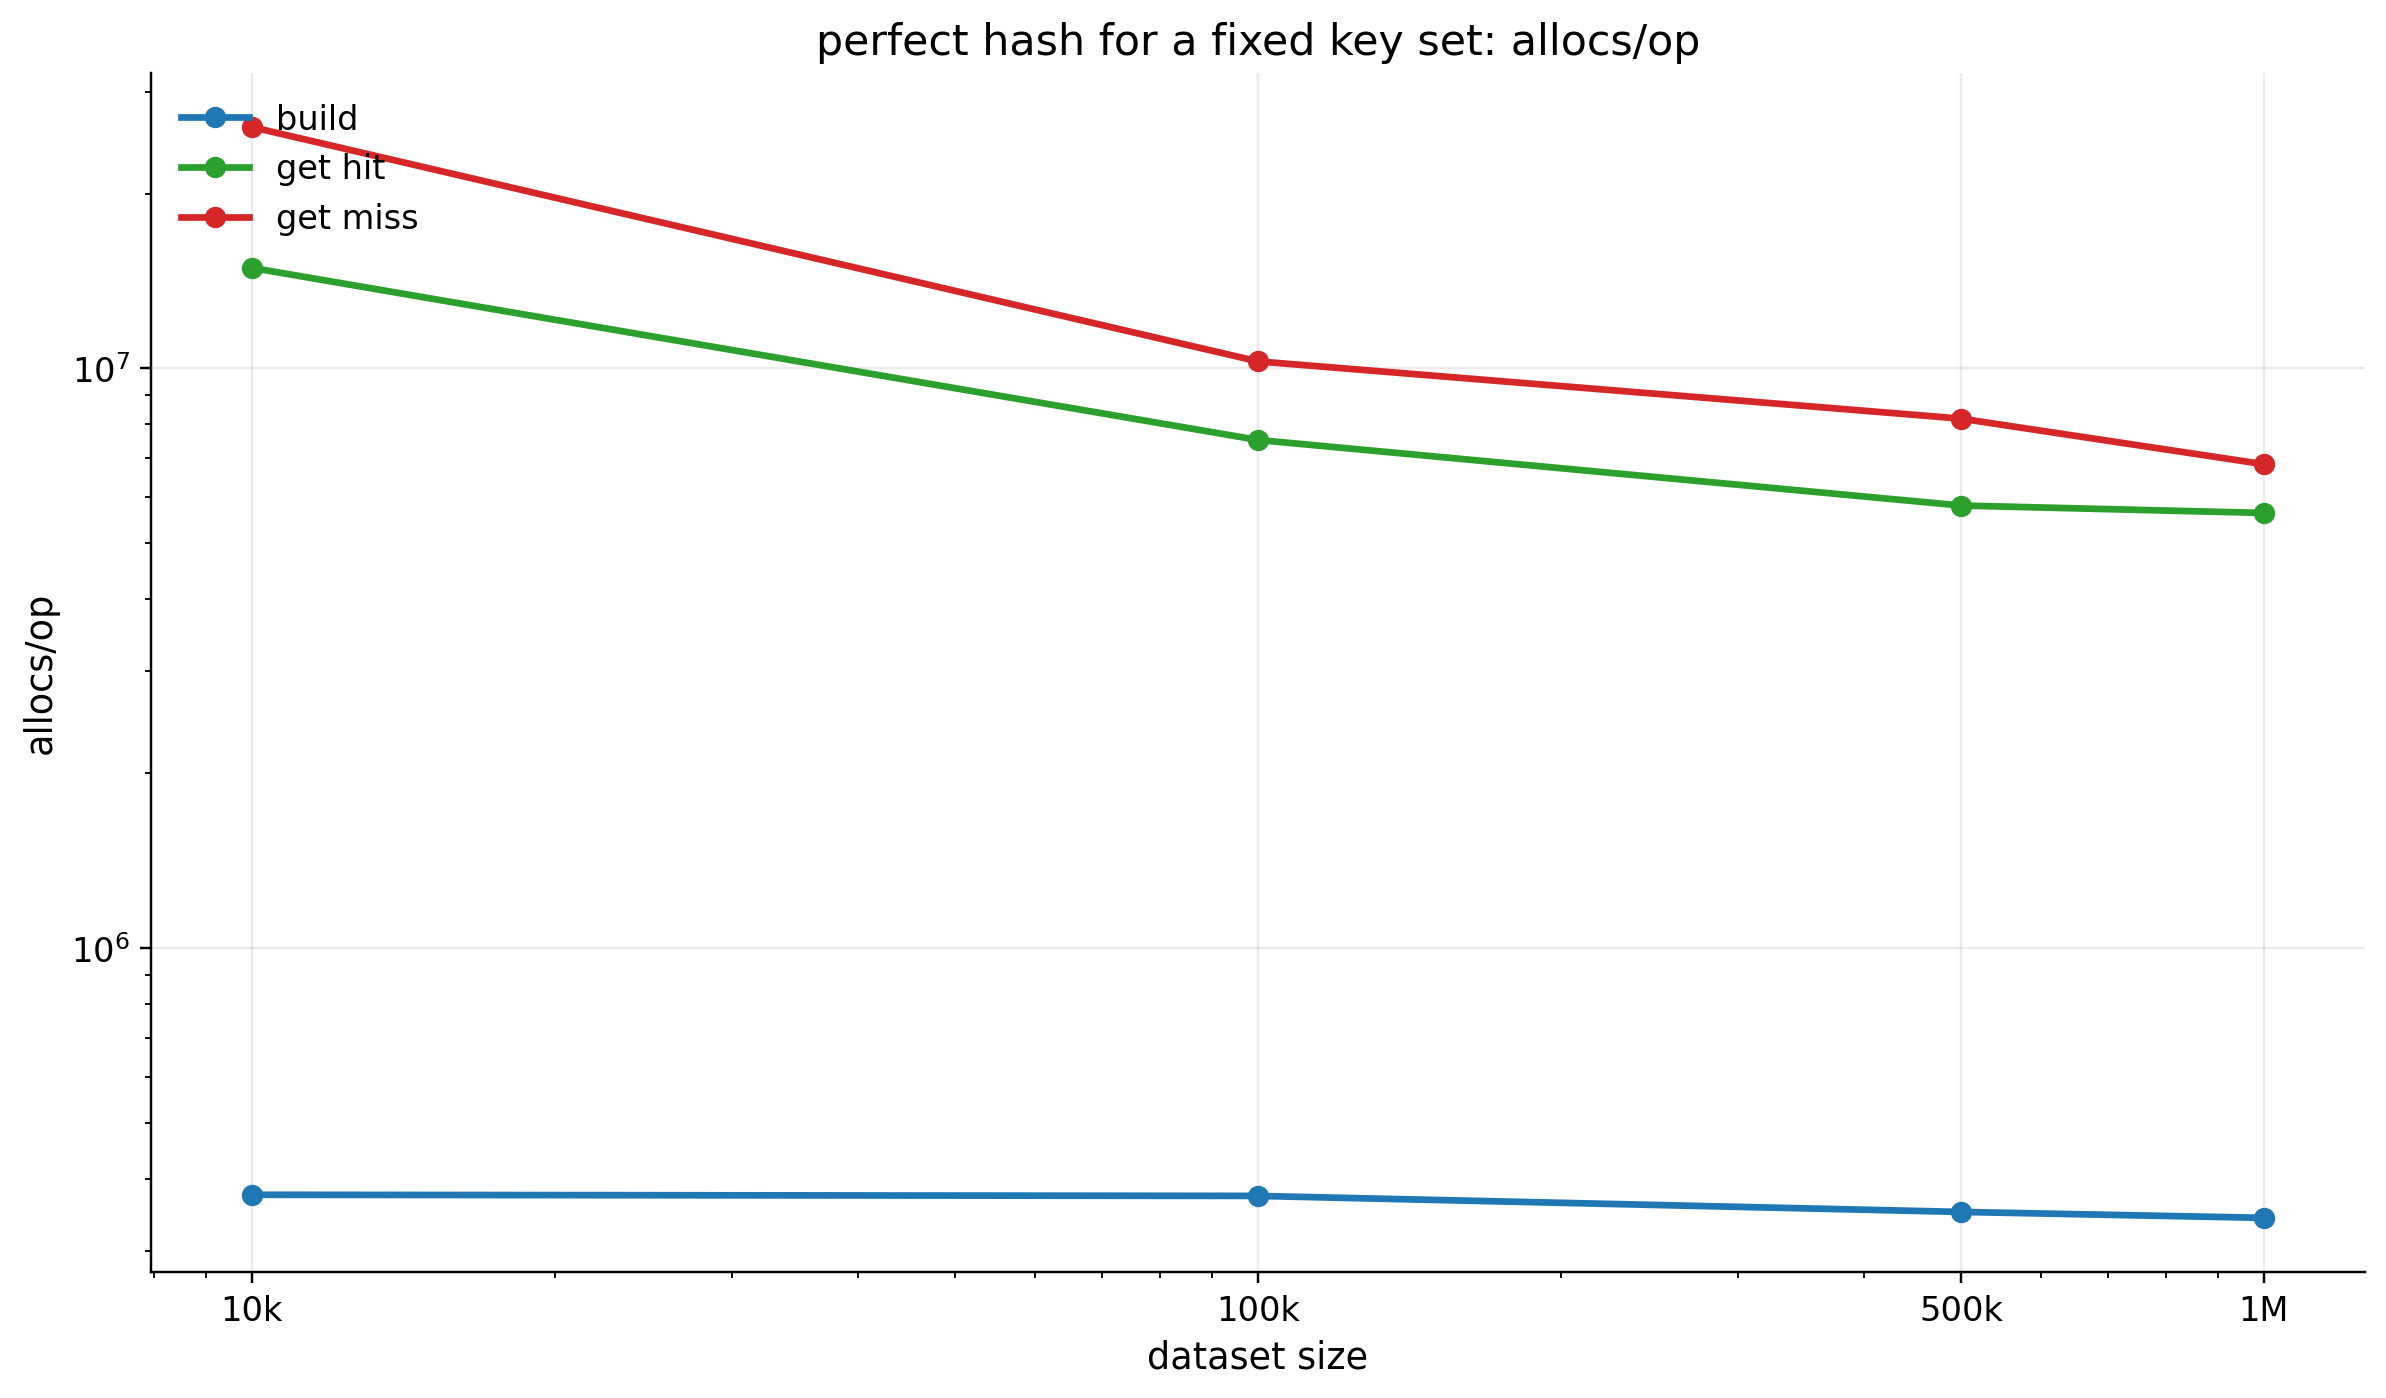
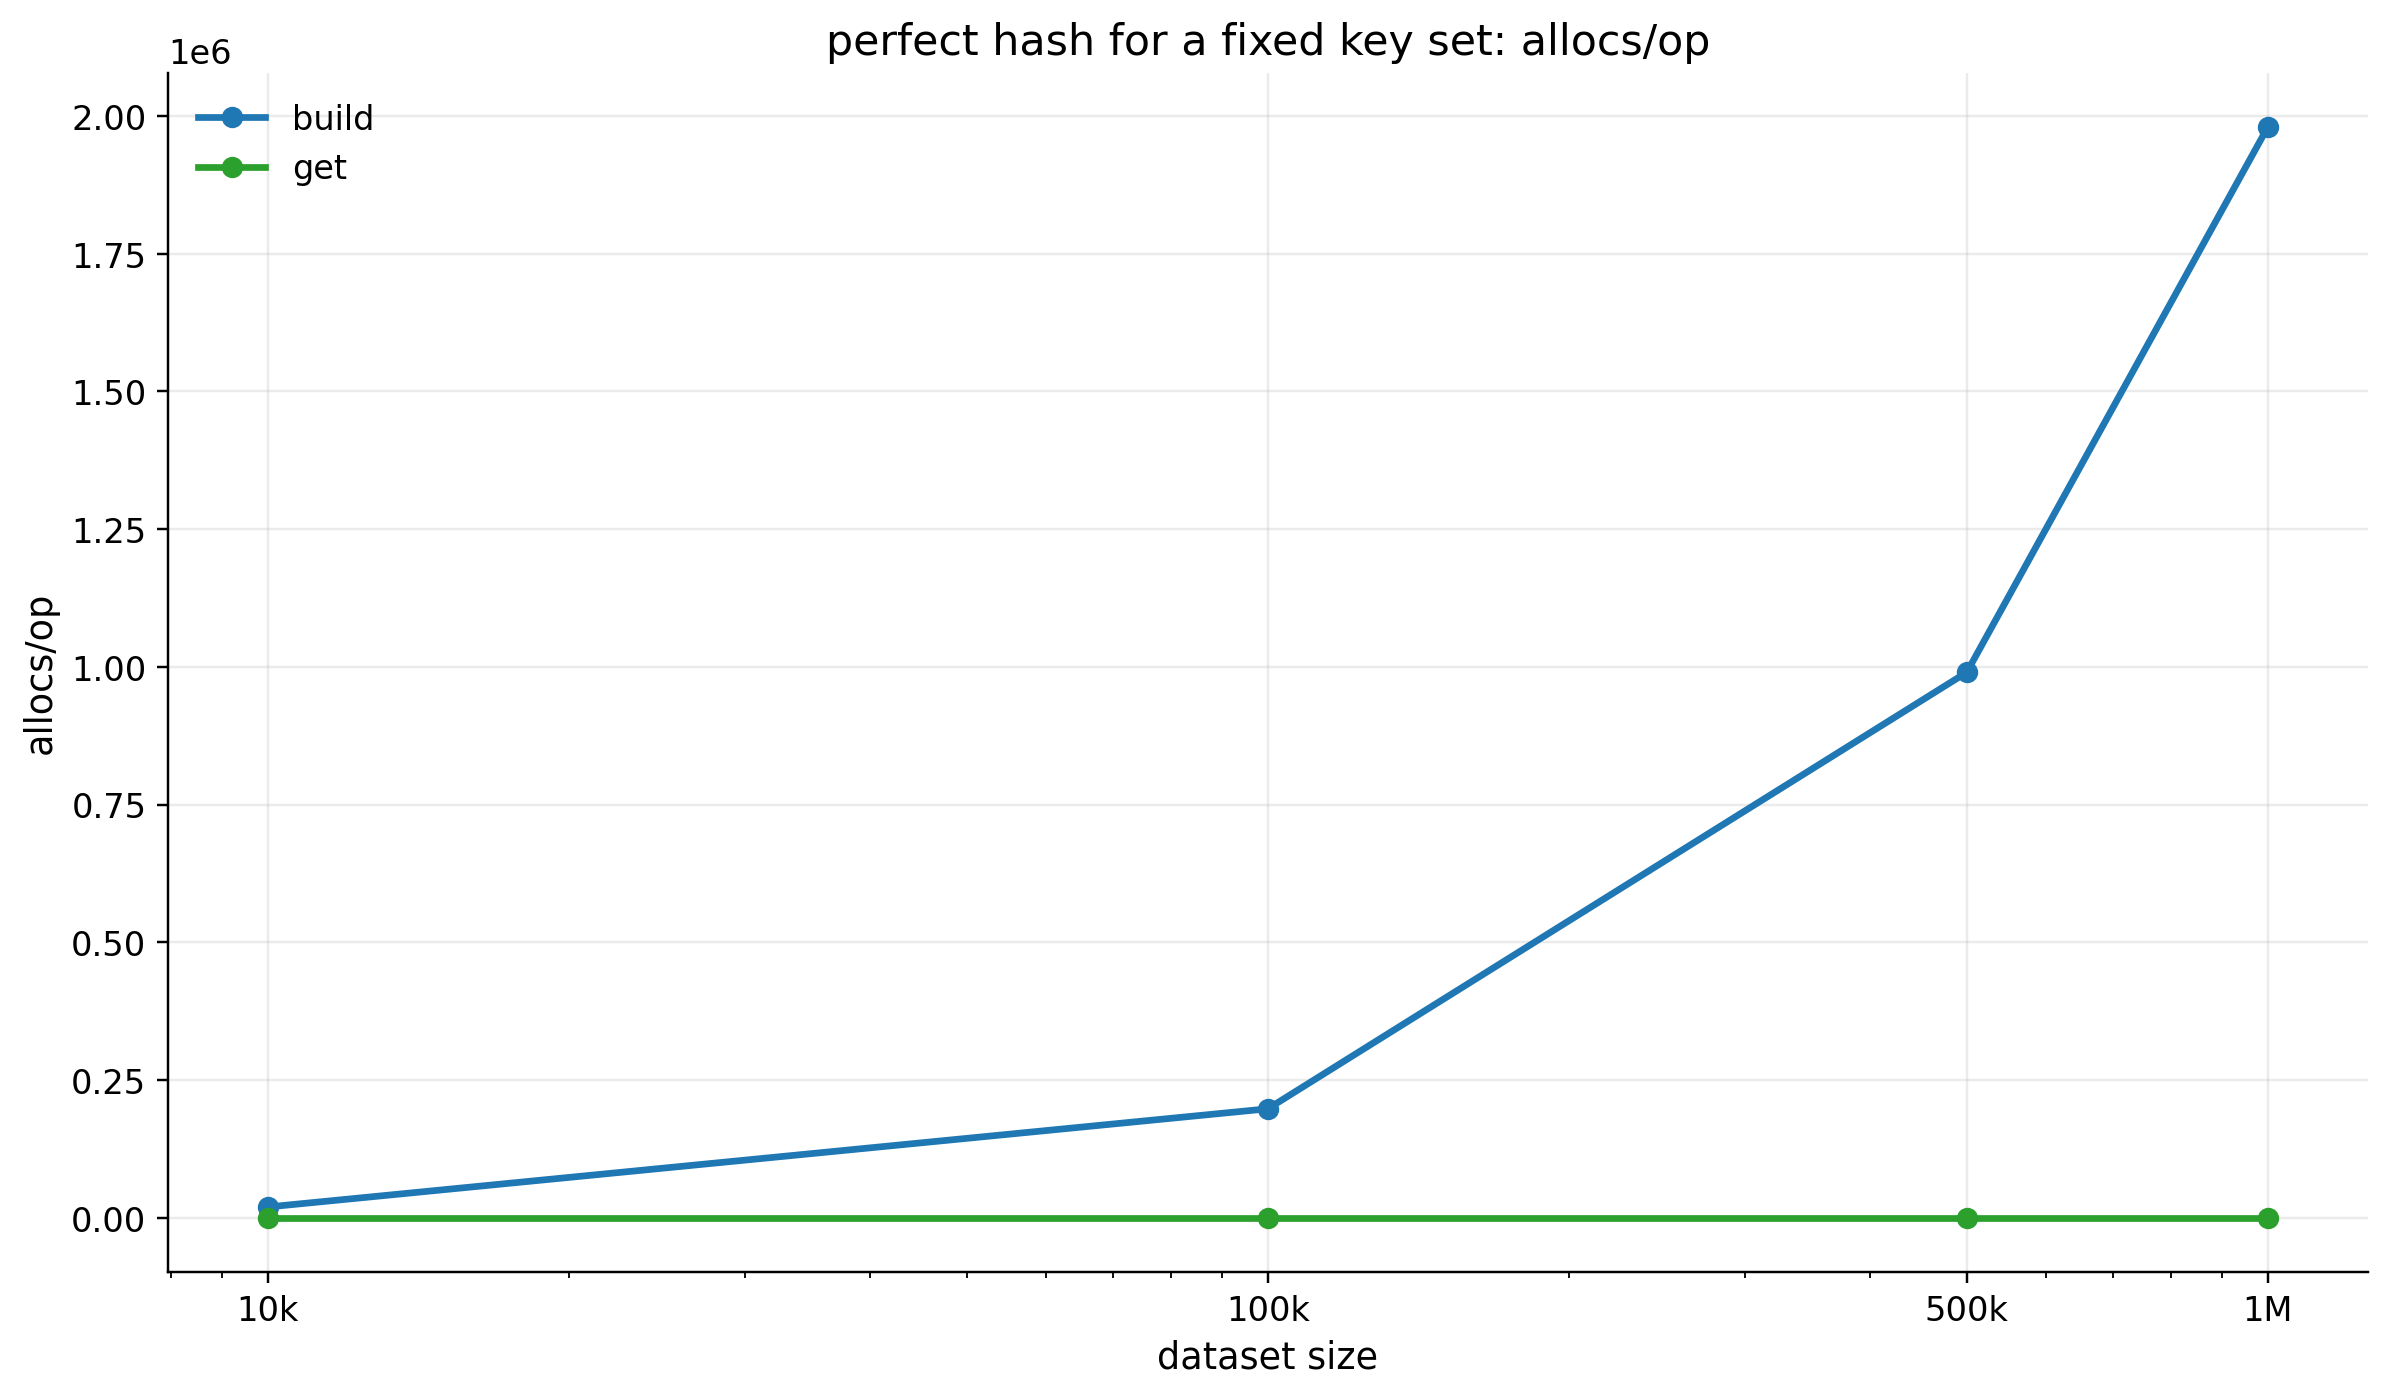
fix perfect hashing

diff --git a/hw1/perfect/benchmark_test.go b/hw1/perfect/benchmark_test.go
@@ -2,13 +2,22 @@ package perfect
 
 import (
 	"fmt"
+	"io"
+	"math"
 	"os"
 	"strconv"
 	"strings"
 	"testing"
+	"time"
 )
 
 var defaultBenchmarkSizes = []int{1000, 10000, 50000, 100000}
+
+const (
+	defaultGetBenchIters       = 100
+	defaultGetCountPerIter     = 100000
+	defaultGeneratedDatasetFmt = "generated:size=%d:seed=%d"
+)
 
 func BenchmarkTableBuild(b *testing.B) {
 	for _, size := range benchmarkSizes(b) {
@@ -59,65 +68,73 @@ func BenchmarkTableGet(b *testing.B) {
 	}
 }
 
-func BenchmarkTableGetMiss(b *testing.B) {
-	for _, size := range benchmarkSizes(b) {
-		entries, _ := randomEntries(int64(size*97), size)
+func TestPerfectGetReport(t *testing.T) {
+	if strings.TrimSpace(os.Getenv("RUN_GET_REPORT")) != "1" {
+		t.Skip("set RUN_GET_REPORT=1 to generate get report")
+	}
+
+	sizes := benchmarkSizes(t)
+	iters := readPositiveIntEnv(t, "BENCH_ITERS", defaultGetBenchIters)
+	lookupsPerIter := readPositiveIntEnv(t, "GET_COUNT_PER_ITER", defaultGetCountPerIter)
+	writer := io.Writer(os.Stdout)
+
+	if outPath := strings.TrimSpace(os.Getenv("GET_REPORT_OUT")); outPath != "" {
+		file, err := os.Create(outPath)
+		if err != nil {
+			t.Fatalf("create get report: %v", err)
+		}
+		defer file.Close()
+		writer = file
+	}
+
+	fmt.Fprintln(writer, "file,rows,iterations,get_sec,get_avg_sec,get_ci95_avg_sec,get_ops_sec")
+	for _, size := range sizes {
+		seed := int64(size * 97)
+		entries, _ := randomEntries(seed, size)
 		table, err := Build(entries)
 		if err != nil {
-			b.Fatalf("Build failed: %v", err)
+			t.Fatalf("Build failed: %v", err)
 		}
 
-		misses := make([]string, size)
-		for i := range misses {
-			misses[i] = fmt.Sprintf("missing-%08d", i)
-		}
+		samples := make([]float64, iters)
+		var totalSec float64
+		var totalOpsSec float64
 
-		b.Run(fmt.Sprintf("size=%d", size), func(b *testing.B) {
-			b.ReportAllocs()
-			for i := 0; i < b.N; i++ {
-				b.StartTimer()
-				for _, key := range misses {
-					if _, found := table.Get(key); found {
-						b.Fatalf("expected missing key %q to be absent", key)
-					}
+		for iter := 0; iter < iters; iter++ {
+			start := time.Now()
+			for i := 0; i < lookupsPerIter; i++ {
+				entry := entries[i%len(entries)]
+				got, found := table.Get(entry.Key)
+				if !found || got != entry.Value {
+					t.Fatalf("Get(%q) mismatch", entry.Key)
 				}
-				b.StopTimer()
 			}
-
-			reportItemMetrics(b, size)
-		})
-	}
-}
-
-func benchmarkSizes(b testing.TB) []int {
-	b.Helper()
-
-	raw := strings.TrimSpace(os.Getenv("SIZES"))
-	if raw == "" {
-		return defaultBenchmarkSizes
-	}
-
-	parts := strings.Split(raw, ",")
-	sizes := make([]int, 0, len(parts))
-	for _, part := range parts {
-		part = strings.TrimSpace(part)
-		if part == "" {
-			continue
+			elapsedSec := time.Since(start).Seconds()
+			avgSec := elapsedSec / float64(lookupsPerIter)
+			samples[iter] = avgSec
+			totalSec += elapsedSec
+			if elapsedSec > 0 {
+				totalOpsSec += float64(lookupsPerIter) / elapsedSec
+			}
 		}
-		value, err := strconv.Atoi(part)
-		if err != nil {
-			b.Fatalf("invalid SIZES value %q: %v", part, err)
-		}
-		if value <= 0 {
-			b.Fatalf("invalid SIZES value %q", part)
-		}
-		sizes = append(sizes, value)
-	}
 
-	if len(sizes) == 0 {
-		b.Fatalf("SIZES=%q did not contain valid values", raw)
+		meanSec := totalSec / float64(iters)
+		meanAvgSec := meanSec / float64(lookupsPerIter)
+		ci95AvgSec := ci95Seconds(samples)
+		meanOpsSec := totalOpsSec / float64(iters)
+
+		fmt.Fprintf(
+			writer,
+			defaultGeneratedDatasetFmt+",%d,%d,%.9f,%.12f,%.12f,%.2f\n",
+			size, seed,
+			size,
+			iters,
+			meanSec,
+			meanAvgSec,
+			ci95AvgSec,
+			meanOpsSec,
+		)
 	}
-	return sizes
 }
 
 func reportItemMetrics(b *testing.B, size int) {
@@ -128,4 +145,81 @@ func reportItemMetrics(b *testing.B, size int) {
 	totalItems := float64(b.N * size)
 	b.ReportMetric(float64(b.Elapsed().Nanoseconds())/totalItems, "ns/item")
 	b.ReportMetric(totalItems/b.Elapsed().Seconds(), "ops/s")
+}
+
+func benchmarkSizes(tb testing.TB) []int {
+	tb.Helper()
+	return parsePositiveIntListEnv(tb, "SIZES", defaultBenchmarkSizes)
+}
+
+func readPositiveIntEnv(tb testing.TB, name string, defaultValue int) int {
+	tb.Helper()
+
+	raw := strings.TrimSpace(os.Getenv(name))
+	if raw == "" {
+		return defaultValue
+	}
+
+	value, err := strconv.Atoi(raw)
+	if err != nil {
+		tb.Fatalf("invalid %s value %q: %v", name, raw, err)
+	}
+	if value <= 0 {
+		tb.Fatalf("invalid %s value %q", name, raw)
+	}
+
+	return value
+}
+
+func parsePositiveIntListEnv(tb testing.TB, name string, defaultValues []int) []int {
+	tb.Helper()
+
+	raw := strings.TrimSpace(os.Getenv(name))
+	if raw == "" {
+		return defaultValues
+	}
+
+	parts := strings.Split(raw, ",")
+	values := make([]int, 0, len(parts))
+	for _, part := range parts {
+		part = strings.TrimSpace(part)
+		if part == "" {
+			continue
+		}
+		value, err := strconv.Atoi(part)
+		if err != nil {
+			tb.Fatalf("invalid %s value %q: %v", name, part, err)
+		}
+		if value <= 0 {
+			tb.Fatalf("invalid %s value %q", name, part)
+		}
+		values = append(values, value)
+	}
+
+	if len(values) == 0 {
+		tb.Fatalf("%s=%q did not contain valid values", name, raw)
+	}
+	return values
+}
+
+func ci95Seconds(samples []float64) float64 {
+	if len(samples) <= 1 {
+		return 0
+	}
+
+	var mean float64
+	for _, sample := range samples {
+		mean += sample
+	}
+	mean /= float64(len(samples))
+
+	var variance float64
+	for _, sample := range samples {
+		diff := sample - mean
+		variance += diff * diff
+	}
+	variance /= float64(len(samples) - 1)
+
+	stderr := math.Sqrt(variance / float64(len(samples)))
+	return 1.96 * stderr
 }

diff --git a/scripts/visualize_hw1_benchmarks.py b/scripts/visualize_hw1_benchmarks.py
@@ -13,18 +13,32 @@ OPERATION_CONFIG = {
             ("get", "get", "#2ca02c"),
             ("delete", "delete", "#d62728"),
         ],
+        "raw": [
+            ("insert", "insert", "#1f77b4"),
+            ("update", "update", "#ff7f0e"),
+            ("get", "get", "#2ca02c"),
+            ("delete", "delete", "#d62728"),
+        ],
         "title": "extendible hashing on filesystem buckets",
     },
     "perfect": {
         "time": [
             ("build", "build", "#1f77b4"),
-            ("get", "get hit", "#2ca02c"),
-            ("get_miss", "get miss", "#d62728"),
+        ],
+        "raw": [
+            ("build", "build", "#1f77b4"),
+            ("get", "get", "#2ca02c"),
         ],
         "title": "perfect hash for a fixed key set",
     },
     "lsh": {
         "time": [
+            ("build", "build", "#1f77b4"),
+            ("add", "add", "#ff7f0e"),
+            ("search", "search", "#2ca02c"),
+            ("fullscan", "full scan", "#d62728"),
+        ],
+        "raw": [
             ("build", "build", "#1f77b4"),
             ("add", "add", "#ff7f0e"),
             ("search", "search", "#2ca02c"),
@@ -96,6 +110,52 @@ def maybe_set_log_scale(ax, values, axis: str) -> None:
             ax.set_yscale("log")
 
 
+def load_get_report(path: Path) -> pd.DataFrame:
+    df = pd.read_csv(path)
+    numeric_columns = ["rows", "iterations", "get_sec", "get_avg_sec", "get_ci95_avg_sec", "get_ops_sec"]
+    for column in numeric_columns:
+        df[column] = pd.to_numeric(df[column], errors="raise")
+    return df.sort_values("rows")
+
+
+def plot_perfect_time(summary_dir: Path, raw_dir: Path, out_dir: Path) -> None:
+    build_summary = summary_dir / "build_summary.tsv"
+    if build_summary.exists():
+        fig, ax = plt.subplots()
+        df = load_tsv(build_summary, ["size", "mean", "ci", "runs"]).sort_values("size")
+        x = df["size"].to_numpy()
+        y = df["mean"].to_numpy()
+        ci = df["ci"].to_numpy()
+
+        ax.plot(x, y, marker="o", linewidth=2.4, color="#1f77b4", label="build")
+        ax.fill_between(x, y - ci, y + ci, alpha=0.18, color="#1f77b4")
+        maybe_set_log_scale(ax, x, "x")
+        set_size_ticks(ax, x)
+        ax.set_xlabel("dataset size")
+        ax.set_ylabel("build ns/op")
+        ax.set_title("perfect hash build: mean and 95% ci")
+        ax.legend(loc="upper left")
+        save(fig, out_dir / "build_time_pretty.png")
+
+    get_report = raw_dir / "get_report.csv"
+    if get_report.exists():
+        fig, ax = plt.subplots()
+        df = load_get_report(get_report)
+        x = df["rows"].to_numpy()
+        y = (df["get_avg_sec"] * 1e9).to_numpy()
+        ci = (df["get_ci95_avg_sec"] * 1e9).to_numpy()
+
+        ax.plot(x, y, marker="o", linewidth=2.4, color="#2ca02c", label="get")
+        ax.fill_between(x, y - ci, y + ci, alpha=0.18, color="#2ca02c")
+        maybe_set_log_scale(ax, x, "x")
+        set_size_ticks(ax, x)
+        ax.set_xlabel("dataset size")
+        ax.set_ylabel("get ns/op")
+        ax.set_title("perfect hash get: mean and 95% ci")
+        ax.legend(loc="upper left")
+        save(fig, out_dir / "get_time_pretty.png")
+
+
 def plot_time(summary_dir: Path, out_dir: Path, algo: str) -> None:
     fig, ax = plt.subplots()
     used_sizes = []
@@ -129,7 +189,7 @@ def plot_raw_metric(raw_dir: Path, out_dir: Path, algo: str, metric: str, out_na
     fig, ax = plt.subplots()
     used_sizes = []
 
-    for operation, label, color in OPERATION_CONFIG[algo]["time"]:
+    for operation, label, color in OPERATION_CONFIG[algo]["raw"]:
         raw_path = raw_dir / f"{operation}_runs.tsv"
         if not raw_path.exists():
             continue
@@ -164,7 +224,13 @@ def main() -> None:
     out_dir = require_env("HW1_OUT_DIR")
 
     setup_style()
-    plot_time(summary_dir, out_dir, algo)
+    if algo == "perfect":
+        legacy_plot = out_dir / "time_pretty.png"
+        if legacy_plot.exists():
+            legacy_plot.unlink()
+        plot_perfect_time(summary_dir, raw_dir, out_dir)
+    else:
+        plot_time(summary_dir, out_dir, algo)
     plot_raw_metric(raw_dir, out_dir, algo, "allocs", "allocs_pretty.png", "allocs/op")
     plot_raw_metric(raw_dir, out_dir, algo, "bytes", "bytes_pretty.png", "B/op")
 
